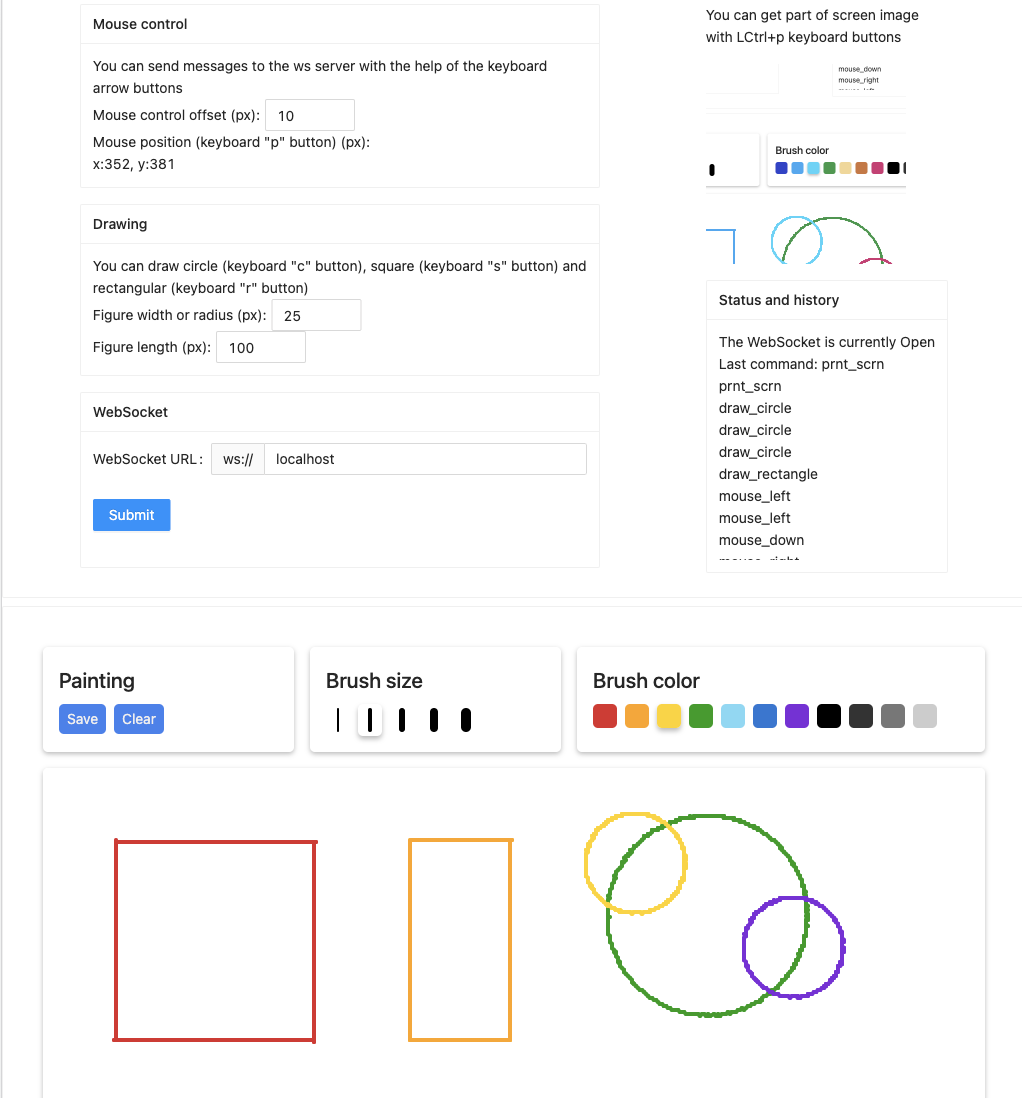
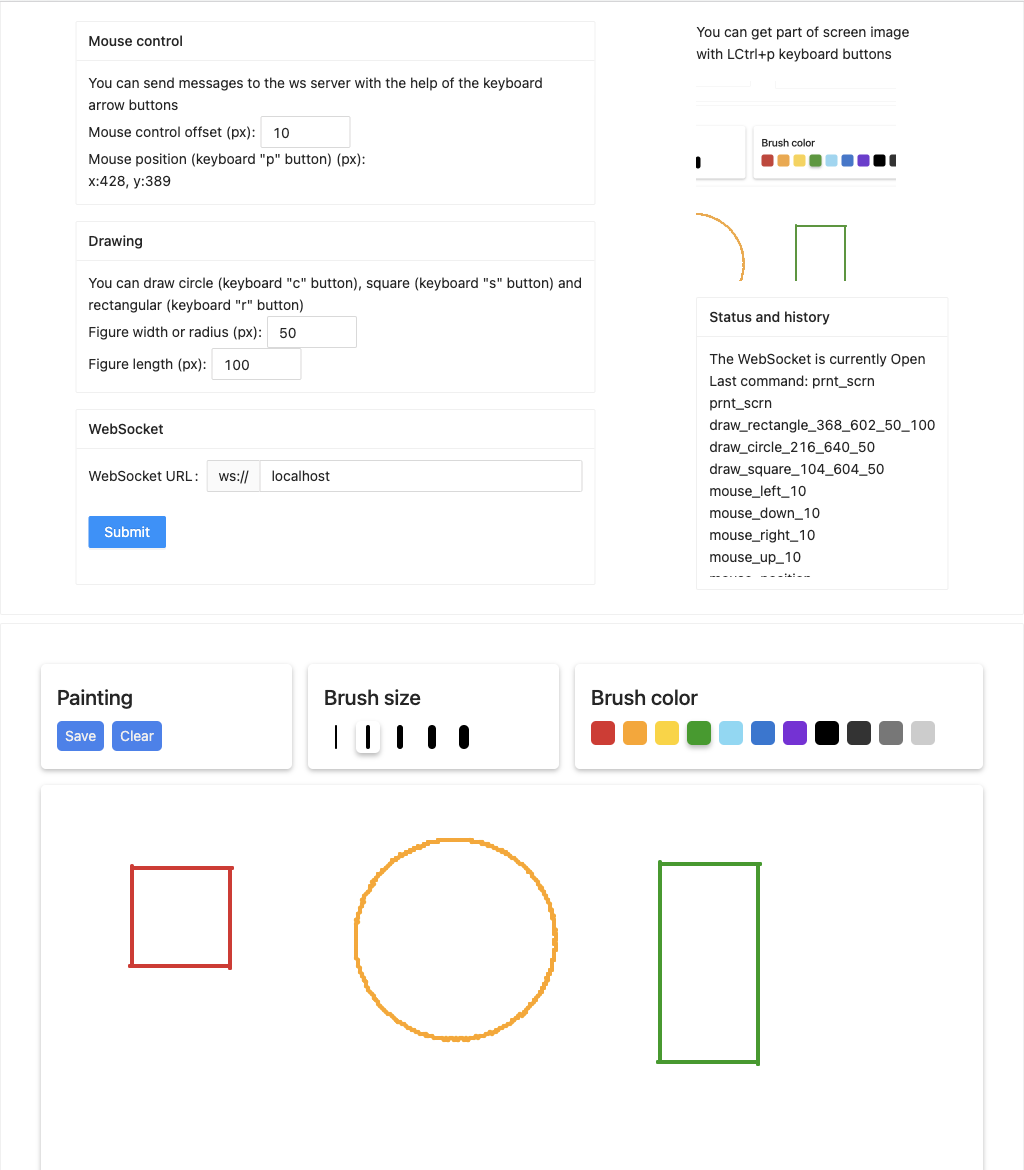
fix: correct color transformation for the screenshot

diff --git a/src/connection/handleConnection.ts b/src/connection/handleConnection.ts
@@ -1,8 +1,9 @@
 import WebSocket, { createWebSocketStream } from "ws";
 import { mouse, left, right, up, down } from "@nut-tree/nut-js";
 import { drawShape } from '../utils/drawShape';
-import { showImage } from '../utils/getScreenshot';
+// import { showImage } from '../utils/getScreenshot';
 import { screenshotSize } from '../constants/constants';
+import { getScreenshot } from '../utils/getScreenshot';
 
 function handleConnection(ws: WebSocket): void {
   const duplex = createWebSocketStream(ws, {
@@ -19,27 +20,27 @@ function handleConnection(ws: WebSocket): void {
       switch (command) {
         case ('mouse_up'): {
           await mouse.move(up(a));
-          duplex.write(`mouse_up`);        
+          duplex.write(`mouse_up_${a}`);        
           break;
         };
         case ('mouse_down'): {
           await mouse.move(down(a));
-          duplex.write(`mouse_down`);
+          duplex.write(`mouse_down_${a}`);
           break;
         };
         case ('mouse_left'): {
           await mouse.move(left(a));
-          duplex.write(`mouse_left`);
+          duplex.write(`mouse_left_${a}`);
           break;
         };
         case ('mouse_right'): {
           await mouse.move(right(a));
-          duplex.write(`mouse_right`);
+          duplex.write(`mouse_right_${a}`);
           break;
         };
         case ('mouse_position'): {
           duplex.write(`mouse_position ${x},${y}\0`);
-          console.log(`mouse_position ${x},${y}`)
+          console.log(`mouse_position ${x}, ${y}`)
           break;
         };
         case ('draw_square'): {
@@ -55,7 +56,7 @@ function handleConnection(ws: WebSocket): void {
           break;
         };
         case ('prnt_scrn'): {    
-          const buf = await showImage(x, y, screenshotSize, screenshotSize);
+          const buf = await getScreenshot(x, y, screenshotSize, screenshotSize);
           console.log(`print_scrn ${x}, ${y}, ${screenshotSize}`);
           duplex.write(`prnt_scrn ${buf}\0`);
           break;

diff --git a/src/utils/getScreenshot.ts b/src/utils/getScreenshot.ts
@@ -4,8 +4,9 @@ import { Region, screen } from "@nut-tree/nut-js";
 
 export async function getScreenshot(x: number, y: number, width: number, height: number) {
   try {
-    const regionToGrab = new Region((x - width/2), (y - width/2) , width, height)
+    const regionToGrab = new Region((x - width/2), (y - width/2), width, height);
     const img = await screen.grabRegion(regionToGrab);
+
     const screenshot = new Jimp({
       data: img.data,
       width: img.width,
@@ -14,21 +15,21 @@ export async function getScreenshot(x: number, y: number, width: number, height:
       if (err) {
         console.error(err);
       }
-    });    
-    return screenshot;
-  } catch (error) {
-    console.error(error);
-  }
-}
+    });
 
-export async function showImage (x: number, y: number, width: number, height: number) {
-  try {
-    const image = await getScreenshot(x, y, width, height);
-    if (image) {
-      const base64 = await image.getBase64Async(image.getMIME());
-      return base64.substring(22);
-    }
+    // Bitwise transform to preserve the colors
+    
+    screenshot.scan(0, 0, screenshot.bitmap.width, screenshot.bitmap.height, (x, y, idx) => {
+      const red = screenshot.bitmap.data[idx + 0];
+      const blue = screenshot.bitmap.data[idx + 2];
+      screenshot.bitmap.data[idx + 0] = blue;
+      screenshot.bitmap.data[idx + 2] = red;
+    });
+
+    const buffer = await (await screenshot.getBufferAsync(Jimp.MIME_PNG)).toString('base64');
+
+    return buffer;
   } catch (error) {
-    console.error(error);
-  }  
+    console.log('Move the cursor to provide enough space for grabbing the screenshot');
+  }
 }

diff --git a/src/utils/drawShape.ts b/src/utils/drawShape.ts
@@ -3,20 +3,22 @@ import { drawRectangle } from './drawRectangle';
 import { drawCircle } from './drawCircle';
 
 export function drawShape(duplex: Duplex, command: string, x: number, y: number, a: number, b=a) {
-  duplex.write(`draw_${command} ${x},${y},${a}\0`);
   switch(command) {
     case 'square': {
       drawRectangle(a, a);
+      duplex.write(`draw_${command}_${x}_${y}_${a}\0`);
       break;
     }
     case 'rectangle': {
       drawRectangle(a, b);
+      duplex.write(`draw_${command}_${x}_${y}_${a}_${b}\0`);
       break;
     }
     case 'circle': {
       drawCircle(a);
+      duplex.write(`draw_${command}_${x}_${y}_${a}\0`);
       break;
-    } 
+    }
   }
   console.log(`draw_${command} ${x}, ${y}, ${a}`);
 }

diff --git a/README.md b/README.md
@@ -15,7 +15,7 @@ The backend is able to do the following:
 - Send current mouse coordinates
 - Send a screenshot capture
 
-### User interface with websocket commands performed:
+#### User interface with websocket commands performed:
 
 ![User interface with websocket commands](screenshots-UI/screenshot_websocket.png)
 
